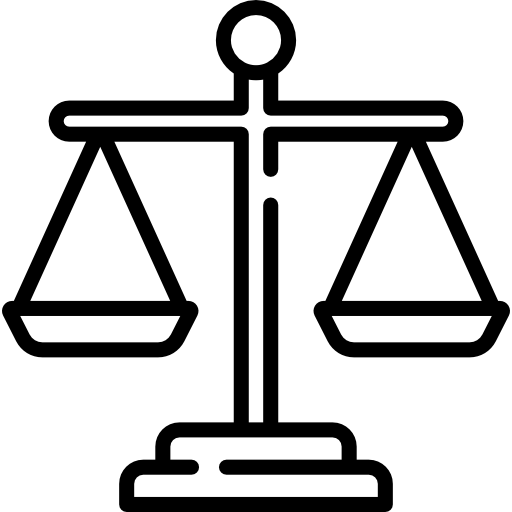
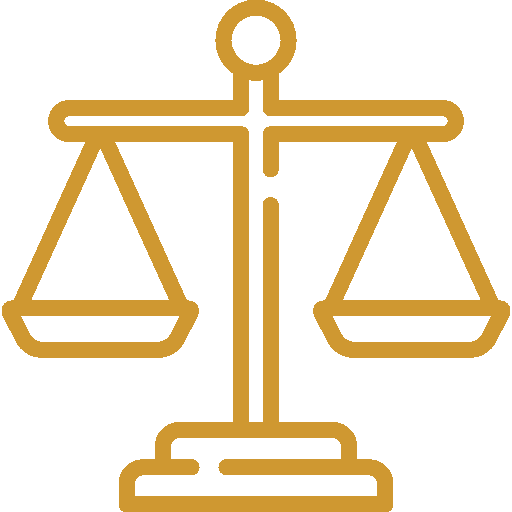
services imgs
changed color of imgs in services section

Changed region(s): [[0.0, 0.0, 1.0, 1.0]]

diff --git a/src/Layout/Navbar.tsx b/src/Layout/Navbar.tsx
@@ -5,21 +5,6 @@ import { Link } from 'react-scroll'
 
 
 function Navbar() {
-  // const [windowSize, setWindowSize] = useState(
-  //   window.innerWidth,
-  // );
-
-  // useEffect(() => {
-  //   const handleWindowResize = () => {
-  //     setWindowSize(window.innerWidth);
-  //   };
-
-  //   window.addEventListener('resize', handleWindowResize);
-
-  //   return () => {
-  //     window.removeEventListener('resize', handleWindowResize);
-  //   };
-  // }, []);
   return (
         <nav className="navbar">
           <div>
@@ -46,7 +31,6 @@ function Navbar() {
               </li>
             </ul>
           </div>
-            {/* {windowSize > 576 ? <MenuItems /> : <DropDownMenu />}  */}
         </nav>
   )
 }
